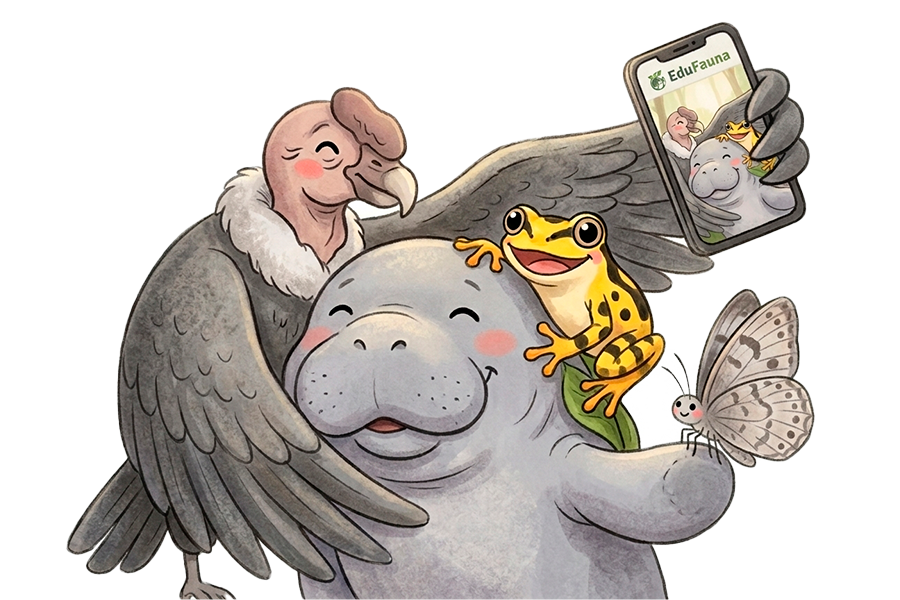
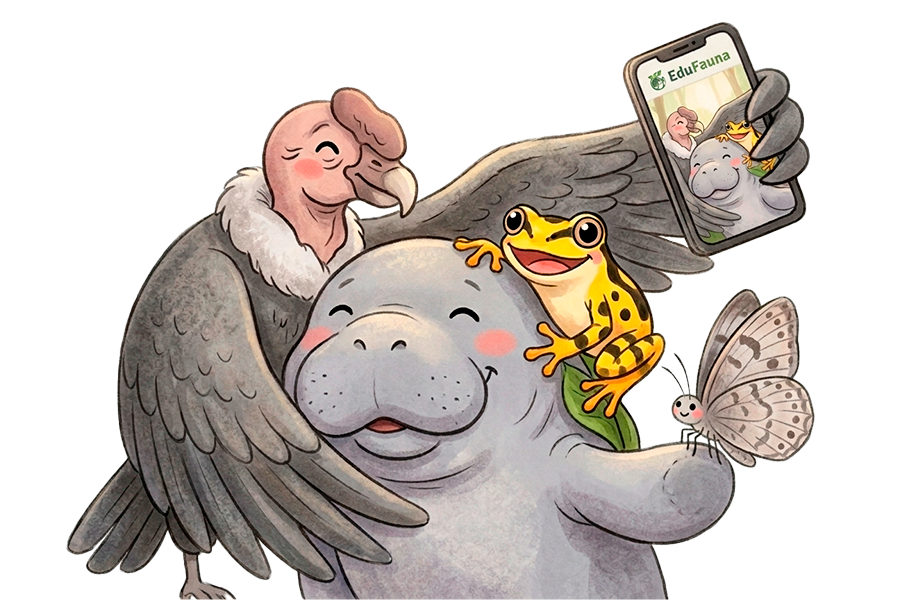
letras y manati dormido

Changed region(s): [[0.6533, 0.45, 0.7467, 0.69], [0.56, 0.36, 0.6533, 0.45], [0.5911, 0.57, 0.6533, 0.6]]

diff --git a/src/animal.html b/src/animal.html
@@ -83,58 +83,65 @@
         </div>
     </header>
 
-	<section class="container mt-5 pt-5">
+	<section class="container mt-5 pt-5 custom-bg">
 
 		<div class="row">
-			<div class="col-sm-6">
-			<div class="card mt-5 p-2 bg-amarillo">
-				<img src="../images/16.png" class="card-img-top img-fluid w-50" alt="Imagen de mamíferos">
-			<div class="card-body">
-				<h3 class="card-title">Mamíferos</h3>	70
-				<p class="card-text">lorem ipsum dolor sit amet, consectetur adipiscing elit. Nullam auctor, nisl eget ultricies aliquam, nunc nisl aliquet nunc, quis aliquet nisl nunc eget nunc.</p>
-				<a href="#" class="btn btn-success">Más información</a>
-			</div>
-			</div>
-			</div>
-
-			<div class="col-sm-6">
-			<div class="card mt-5 p-2 bg-amarillo">
-				<img src="../images/15.png" class="card-img-top img-fluid w-50" alt="Imagen de anfibios">
+			<div class="col">
+			<div class="card m-5 p-2 bg-amarillo">
+                <div class="text-center">
+				<img src="../images/15.png" class="card-img-top img-fluid" alt="Imagen de anfibios">
+                </div>
 				<div class="card-body">
-					<h3 class="card-title">anfibios</h3>
-					<p class="card-text">lorem ipsum dolor sit amet, consectetur adipiscing elit. Nullam auctor, nisl eget ultricies aliquam, nunc nisl aliquet nunc, quis aliquet nisl nunc eget nunc.</p>
+					<h3 class="card-title cherry-bomb-one-regular">Anfibios</h3>
+					<p class="card-text">anfibios</p>
 					<a href="#" class="btn btn-success">Más información</a>
 				</div>
+			</div>
+			</div>
+            <div class="col">
+			<div class="card m-5 p-2 bg-amarillo">
+                <div class="text-center">
+				<img src="../images/16.png" class="card-img-top img-fluid" alt="Imagen de mamíferos">
+                </div>
+			<div class="card-body">
+				<h3 class="card-title cherry-bomb-one-regular">Mamíferos</h3>
+				<p class="card-text">mamiferos</p>
+				<a href="#" class="btn btn-success">Más información</a>
+			</div>
 			</div>
 			</div>
 			</div>
 		</div>
 
 		<div class="row">
-			<div class="col-sm-6">
-			<div class="card mt-3 mb-3 p-2 bg-amarillo">
-				<img src="../images/18.png" class="card-img-top img-fluid w-50" alt="Imagen de aves">
+			<div class="col">
+			<div class="card my-1 mb-5 mx-5 p-2 bg-amarillo">
+                <div class="text-center">
+                    <img src="../images/18.png" class="card-img-top img-fluid" alt="Imagen de aves">
+                </div>
 				<div class="card-body">
-					<h3 class="card-title">aves</h3>
-					<p class="card-text">lorem ipsum dolor sit amet, consectetur adipiscing elit. Nullam auctor, nisl eget ultricies aliquam, nunc nisl aliquet nunc, quis aliquet nisl nunc eget nunc.</p>
+					<h3 class="card-title cherry-bomb-one-regular">Aves</h3>
+					<p class="card-text">aves</p>
 					<a href="#" class="btn btn-success">Más información</a>
 				</div>
 			</div>
 			</div>
 			
-			<div class="col-sm-6">
-			<div class="card mt-3 mb-3 p-2 bg-amarillo">
+			<div class="col">
+			<div class="card my-1 mb-5 mx-5 p-2 bg-amarillo">
                 <div class="text-center">
-                    <img src="../images/17.png" class="card-img-top img-fluid w-50 "alt="Imagen de insectos">
+                    <img src="../images/17.png" class="card-img-top img-fluid "alt="Imagen de insectos">
                 </div>
 				<div class="card-body">
-					<h3 class="card-title">insectos</h3>
-					<p class="card-text">lorem ipsum dolor sit amet, consectetur adipiscing elit. Nullam auctor, nisl eget ultricies aliquam, nunc nisl aliquet nunc, quis aliquet nisl nunc eget nunc.</p>
+					<h3 class="card-title cherry-bomb-one-regular">Insectos</h3>
+					<p class="card-text">insectos</p>
 					<a href="#" class="btn btn-success">Más información</a>
 				</div>
 			</div>
 			</div>
 		</div>
+
+
 	</section>
 
 

diff --git a/style.css b/style.css
@@ -198,6 +198,22 @@ main {
         z-index: 1; 
     }
 
+        .custom-bg::before {
+        content: "";
+        position: absolute;
+        top: 0;
+        left: 0;
+        width: 100%;
+        height: 180%;
+        background-image: url('images/fondo.jpg');
+        background-position: center center;
+        background-repeat: no-repeat;
+        background-attachment: fixed;
+        background-size: cover;
+        opacity: 0.8; 
+        z-index: -1; 
+    }
+
     .custom-shape-divider-bottom-1782702114 {
         z-index: 3;
     }

diff --git a/src/juegos.html b/src/juegos.html
@@ -2,7 +2,7 @@
 <html>
 <head>
 <meta charset="utf-8">
- <meta charset="utf-8">
+<meta charset="utf-8">
     <title>EduFauna</title>
     <meta name="viewport" content="width=device-width, initial-scale=1">
     <link rel="stylesheet" href="../style.css">
@@ -87,21 +87,21 @@
 	<section class="container-fluid mt-5 p-5">
 		<div class="row">
 			<div class="col text-center">
-				<h1 class="m-5">Quizz</h1>
+				<h1 class="m-5 cherry-bomb-one-regular">Quizz</h1>
 				<div class="card bg-amarillo">
                 <img href="#" alt="imagen quizz" class="img-fluid">
 				<div class="card-body text-center">
-				<h3 class="card-title cherry-bomb-one-regular"> nombre quizz</h3>
+				<h3 class="card-title "> nombre quizz</h3>
                 <a href="quizz1.html" class="btn bg-verde">Iniciar Quizz</a>
 				</div>
 				</div>
 			</div>
             <div class="col text-center">
-				<h1 class="m-5">Quizz personalidad</h1>
+				<h1 class="m-5 cherry-bomb-one-regular">Quizz personalidad</h1>
 				<div class="card bg-verde-claro">
                 <img href="#" alt="imagen quizz" class="img-fluid">
 				<div class="card-body text-center">
-				<h3 class="card-title cherry-bomb-one-regular"> nombre quizz</h3>
+				<h3 class="card-title "> nombre quizz</h3>
 				<a href="quizz2.html" class="btn bg-verde">Iniciar Quizz</a>
 				</div>
 				</div>
@@ -111,11 +111,11 @@
 			
 			<div class="row">
 			<div class="col text-center">
-				<h1 class="m-5">Juego</h1>
+				<h1 class="m-5 cherry-bomb-one-regular">Juego</h1>
 				<div class="card bg-azul-claro">
                 <img href="#" alt="imagen quizz" class="img-fluid">
 				<div class="card-body text-center">
-				<h3 class="card-title cherry-bomb-one-regular"> nombre quizz</h3>
+				<h3 class="card-title "> nombre quizz</h3>
 				<a href="#" class="btn bg-verde">Iniciar Quizz</a>
 				</div>
 				</div>

diff --git a/index.html b/index.html
@@ -86,8 +86,9 @@
 
 <main>
 
-<!--<model-viewer src="manatee.glb" id="modeloRana" camera-orbit="135deg 90deg" style="transform: translateX(25%);" autoplay></model-viewer>
--->
+<!--  <model-viewer src="manatee.glb" id="modeloRana" camera-orbit="135deg 90deg" style="transform: translateX(25%);" autoplay></model-viewer>
+-->   
+
 
     <section>
         <div class="container-fluid  mt-5 pt-5 position-relative overflow-hidden custom-hero-bg" style="padding-bottom: 50px;">
@@ -127,7 +128,7 @@
                 </div>
             </div>
             <div class="col-md-6">
-                <h1 class="fw-bold display-1 text-white">Nuestros vecinos más especiales te necesitan.</h1>
+                <h1 class=" display-1 cherry-bomb-one-regular text-white">Nuestros vecinos más especiales te necesitan.</h1>
                 <p class="display-4 text-white">¿Sabías que muchos están en <span class="text-warning">peligro</span>?</p>
             </div>  
         </div>
@@ -137,7 +138,7 @@
         <div class="my-5 row p-5">
             <div class="col">
                 <div class="card bg-verde-claro text-dark rounded-4">
-                    <img alt="imagen condor">
+                    <img alt="imagen condor" class="img-fluid"  src="images/animal(3).png">
                     <div class="card-body text-center">
                         <h1 class="card-title cherry-bomb-one-regular">El Cóndor de los Andes</h1>
                         <p>¡El rey del viento con alas de 3 metros!</p>
@@ -147,7 +148,7 @@
             </div>
             <div class="col">
                 <div class="card bg-verde-claro text-dark rounded-4">
-                    <img alt="imagen manati">
+                    <img alt="imagen manati" class="img-fluid" src="images/animal.png">
                     <div class="card-body text-center">
                         <h1 class="card-title cherry-bomb-one-regular">El Manatí</h1>
                         <p>Nuestra gigante y amigable "vaca marina"</p>
@@ -157,7 +158,7 @@
             </div>  
             <div class="col">
                 <div class="card bg-verde-claro text-dark rounded-4">
-                    <img alt="imagen sapito">
+                    <img alt="imagen sapito" class="img-fluid" src="images/5.png">
                     <div class="card-body text-center">
                         <h1 class="card-title cherry-bomb-one-regular">El Sapito de Mucubají</h1>
                         <p>¡Un pequeño guerrero que aguanta el frío!</p>

diff --git a/src/final2.html b/src/final2.html
@@ -101,13 +101,13 @@
 
     <div id="resultado" class="mt-4"></div>
     <div>
-        <h2>FIN DEL QUIZZ</h2>
+        <h2 class="cherry-bomb-one-regular">FIN DEL QUIZZ</h2>
     </div>
     <div>
         <img id="animal" alt="animal">
     </div>
     <div>
-        <p>felicidades! eres un<span id="animalito"> - </span> </p>
+        <p>Felicidades! eres un<span id="animalito"> - </span> </p>
     </div>
     <button class="btn bg-naranja text-white rounded-pill m-2" id="comenzar">Volver a jugar</button>
     <button class="btn bg-naranja text-white rounded-pill m-2" id="inicio">Apartado de Juegos</button>

diff --git a/src/quizz1inicio.html b/src/quizz1inicio.html
@@ -107,7 +107,7 @@
                 /
                 <span> 5</span>
             </div>
-            <p id="txt-pregunta" class="pregunta">
+            <p id="txt-pregunta" class="pregunta cherry-bomb-one-regular">
                 ¿Texto de la pregunta 1?
             </p>
 
@@ -167,7 +167,7 @@
             </div>
         </div>
     </footer>
-  
+
 	<script src="preguntas.js"></script>
 	<script type="module" src="https://ajax.googleapis.com/ajax/libs/model-viewer/4.3.1/model-viewer.min.js"></script>
 </body>

diff --git a/src/quizz2.html b/src/quizz2.html
@@ -97,7 +97,7 @@
 
         </div>
         <div class="pt-5">
-            <h1 class="fw-bold">¡Bienvenido!</h1>  
+            <h1 class=" cherry-bomb-one-regular">¡Bienvenido!</h1>  
             <p class="fs-5 text-muted">Ingresa tu nombre para jugar</p>
             <input type="text" class="form-control mb-3" id="nombre" placeholder="Nombre">
             <button class="btn bg-naranja btn-lg rounded-pill px-4" id="iniciar">Iniciar</button>

diff --git a/src/quizz2inicio.html b/src/quizz2inicio.html
@@ -98,7 +98,7 @@
     </div>
 
 <div class="pt-5" id="contenedor">
-        <p id="txt-pregunta" class="fw-bold fs-4"></p>
+        <p id="txt-pregunta" class="cherry-bomb-one-regular fs-4"></p>
 
     <div class="preguntas-opciones d-flex flex-column align-items-start ps-4">
         <label class="mb-2">